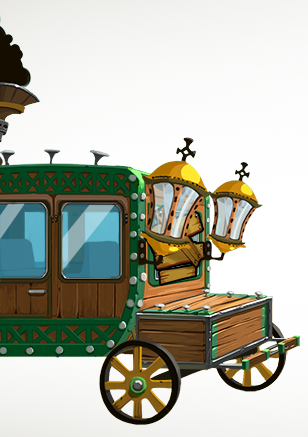
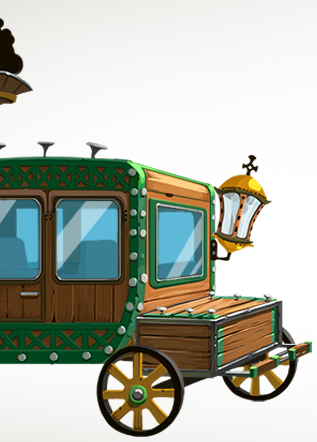
2015.07.07 02

Changed region(s): [[0.0, 0.0297, 0.9935, 1.0]]

diff --git a/SwampAttack/Classes/GameMap.h b/SwampAttack/Classes/GameMap.h
@@ -31,20 +31,21 @@ public:
     Vec2 m_BulletStartPoint = {m_visibleOrigin.x + 230, m_visibleOrigin.y + 240};
     Vec2 gangpao_BulletStartPoint = {m_visibleOrigin.x + 150, m_visibleOrigin.y + 320};
     
-    Vec2 fightScene_human_Point = {m_visibleOrigin.x + 240, m_visibleOrigin.y + 170};
-    Vec2 fightScene_gangpao_Point = {m_visibleOrigin.x + 110,m_visibleOrigin.y + 360};
+    Vec2 fightScene_human_Point = {m_visibleOrigin.x + 240, m_visibleOrigin.y + 180};
+    Vec2 fightScene_gangpao_Point = {m_visibleOrigin.x + 110,m_visibleOrigin.y + 385};
     
     Vec2 fightScene_zhalan_point1 = {m_visibleOrigin.x + 320,m_visibleOrigin.y + 70};
     Vec2 fightScene_zhalan_point2 = {m_visibleOrigin.x + 340,m_visibleOrigin.y + 150};
     float fightScene_zhalan_line = m_visibleOrigin.x + 330;
     
-    Vec2 fightScene_HouseSprite_Position = {m_visibleOrigin.x + 155 ,m_visibleOrigin.y + 260};
+    Vec2 fightScene_HouseDeng_Position = {m_visibleOrigin.x + 171 ,m_visibleOrigin.y + 296};
+    Vec2 fightScene_HouseSprite_Position = {m_visibleOrigin.x + 155 ,m_visibleOrigin.y + 275};
     Vec2 fightScene_HouseBar_Position = {m_visibleOrigin.x + 300 ,m_visibleOrigin.y + m_visibleSize.height - 50};
     Vec2 fightScene_Gold_Position = {m_visibleOrigin.x + 40 ,m_visibleOrigin.y + m_visibleSize.height - 130};
     Vec2 fightScene_EnemyBar_Position = {m_visibleOrigin.x + m_visibleSize.width - 230 , m_visibleOrigin.y + m_visibleSize.height - 50};
     
     Vec2 fightScene_Bullet_Position = {m_visibleOrigin.x +510 ,m_visibleOrigin.y + m_visibleSize.height - 100};
-    Vec2 fightScene_gunIcon_Position = {m_visibleOrigin.x +40 ,m_visibleOrigin.y + 50};
+    Vec2 fightScene_gunIcon_Position = {m_visibleOrigin.x +50 ,m_visibleOrigin.y + 50};
     
     Vec2 fightScene_PropIcon_Position = {m_visibleOrigin.x + m_visibleSize.width -60,m_visibleOrigin.y + m_visibleSize.height - 120};
     

diff --git a/SwampAttack/Classes/GameFightScene.cpp b/SwampAttack/Classes/GameFightScene.cpp
@@ -69,10 +69,10 @@ bool GameFightScene::init()
     bgSprite->setPosition(Vec2(m_visibleOrigin.x + m_visibleSize.width * 0.5,
                                m_visibleOrigin.y + m_visibleSize.height * 0.5));
     
-//    Sprite * fgSprite = Sprite::create(ImagePath("scene1_Fg.png"));
-//    addChild(fgSprite,640);
-//    fgSprite->setPosition(Vec2(m_visibleOrigin.x + m_visibleSize.width * 0.5,
-//                               m_visibleOrigin.y + fgSprite->getContentSize().height * 0.5));
+    Sprite * fgSprite = Sprite::create(ImagePath("scene1_Fg.png"));
+    addChild(fgSprite,640);
+    fgSprite->setPosition(Vec2(m_visibleOrigin.x + m_visibleSize.width * 0.5,
+                               m_visibleOrigin.y + fgSprite->getContentSize().height * 0.5));
     
     
     m_listener = EventListenerTouchOneByOne::create();
@@ -117,7 +117,12 @@ bool GameFightScene::init()
 //    log("fight scene init");
     _G_D->initGameView();
     
+    Sprite * cheDeng = Sprite::create(ImagePath("house_deng.png"));
+    cheDeng->setPosition(_G_M_M->fightScene_HouseDeng_Position);
+    addChild(cheDeng,4);
+    
     _G_D->startGame();
+    
     setSubject(_G_D);
     
     

diff --git a/SwampAttack/Classes/PropSpriteView.cpp b/SwampAttack/Classes/PropSpriteView.cpp
@@ -42,9 +42,9 @@ m_moveJuli(0.0f)
     
     Vec2 iconPoint = _G_M_M->fightScene_PropIcon_Position;
     float iconWidth = m_blueBg->getContentSize().width;
-    m_blueBg->setPosition(iconPoint - Vec2((iconWidth + 20) * (iconIndex - 1), 0) * m_iconScale);
-    propIcon->setPosition(iconPoint - Vec2((iconWidth + 20) * (iconIndex - 1), 0) * m_iconScale);
-    m_numLabel->setPosition(iconPoint - Vec2((iconWidth + 20) * (iconIndex - 1), 0) * m_iconScale + Vec2(20, -20));
+    m_blueBg->setPosition(iconPoint - Vec2((iconWidth + 0) * (iconIndex - 1), 0) * m_iconScale);
+    propIcon->setPosition(iconPoint - Vec2((iconWidth + 0) * (iconIndex - 1), 0) * m_iconScale);
+    m_numLabel->setPosition(iconPoint - Vec2((iconWidth + 0) * (iconIndex - 1), 0) * m_iconScale + Vec2(20, -20));
     
     m_listener = EventListenerTouchOneByOne::create();
     m_listener->setSwallowTouches(true);

diff --git a/SwampAttack/Classes/DefenseBuilding1_Sprite.cpp b/SwampAttack/Classes/DefenseBuilding1_Sprite.cpp
@@ -7,6 +7,7 @@
 //
 
 #include "DefenseBuilding1_Sprite.h"
+#include "GameFightScene.h"
 
 DefenseBuilding1_Sprite::DefenseBuilding1_Sprite(DefenseBuilding * building):
 DefenseBuildingSprite(building)
@@ -19,10 +20,11 @@ DefenseBuildingSprite(building)
         
         Sprite * buildingS = Sprite::create(ImagePath("fight_building1.png"));
         addChild(buildingS);
-        buildingS->setPosition(m_visibleOrigin.x + 20,m_visibleOrigin.y + 240);
+        buildingS->setPosition(m_visibleOrigin.x + 20,m_visibleOrigin.y + 260);
         Sprite * buildingS2 = Sprite::create(ImagePath("fight_building1.png"));
         addChild(buildingS2);
-        buildingS2->setPosition(m_visibleOrigin.x + 90,m_visibleOrigin.y + 240);
+        buildingS2->setPosition(m_visibleOrigin.x + 90,m_visibleOrigin.y + 260);
+        _G_V->addChild(this,3);
     }
     
     

diff --git a/SwampAttack/Classes/DefenseBuilding3_Sprite.cpp b/SwampAttack/Classes/DefenseBuilding3_Sprite.cpp
@@ -9,7 +9,7 @@
 #include "DefenseBuilding3_Sprite.h"
 #include "BaseUtil.h"
 #include "GameMapManager.h"
-
+#include "GameFightScene.h"
 
 DefenseBuilding3_Sprite::DefenseBuilding3_Sprite(DefenseBuilding * building):
 DefenseBuildingSprite(building)
@@ -29,7 +29,7 @@ DefenseBuildingSprite(building)
     
     waitAction = RepeatForever::create(BaseUtil::makeAnimateWithNameAndIndex("monkey_wait" ,7));
     waitAction->retain();
-    
+    _G_V->addChild(this,1);
     scheduleUpdate();
 }
 DefenseBuilding3_Sprite::~DefenseBuilding3_Sprite()

diff --git a/SwampAttack/Classes/GamePauseScene.cpp b/SwampAttack/Classes/GamePauseScene.cpp
@@ -62,7 +62,7 @@ GamePauseScene::GamePauseScene(RenderTexture * rt)
     pauseSpr->setPosition(bgSize.width * 0.5,bgSize.height * 0.5);
     bg->addChild(pauseSpr);
     
-    int widthOffset = 100;
+    int widthOffset = 120;
     
     MenuItemImage * gotoMapButton = MenuItemImage::create(ImagePath("overScene_tomap.png"),
                                                           ImagePath("overScene_tomap.png"),

diff --git a/SwampAttack/Classes/HouseSprite.cpp b/SwampAttack/Classes/HouseSprite.cpp
@@ -25,7 +25,7 @@ HouseSprite::HouseSprite()
     m_healthBar->setBarRight();
     m_healthBar->setPosition(_G_M_M->fightScene_HouseBar_Position);
     log("house bar :%f",_G_M_M->fightScene_HouseBar_Position.y);
-    _G_V->addChild(this,1);
+    _G_V->addChild(this);
     scheduleUpdate();
 }
 HouseSprite::~HouseSprite()

diff --git a/SwampAttack/Classes/DefenseBuildingSprite.cpp b/SwampAttack/Classes/DefenseBuildingSprite.cpp
@@ -7,12 +7,12 @@
 //
 
 #include "DefenseBuildingSprite.h"
-#include "GameFightScene.h"
+
 
 
 DefenseBuildingSprite::DefenseBuildingSprite(DefenseBuilding * building):
 m_building(building)
 {
     init();
-    _G_V->addChild(this,3);
+    
 }
